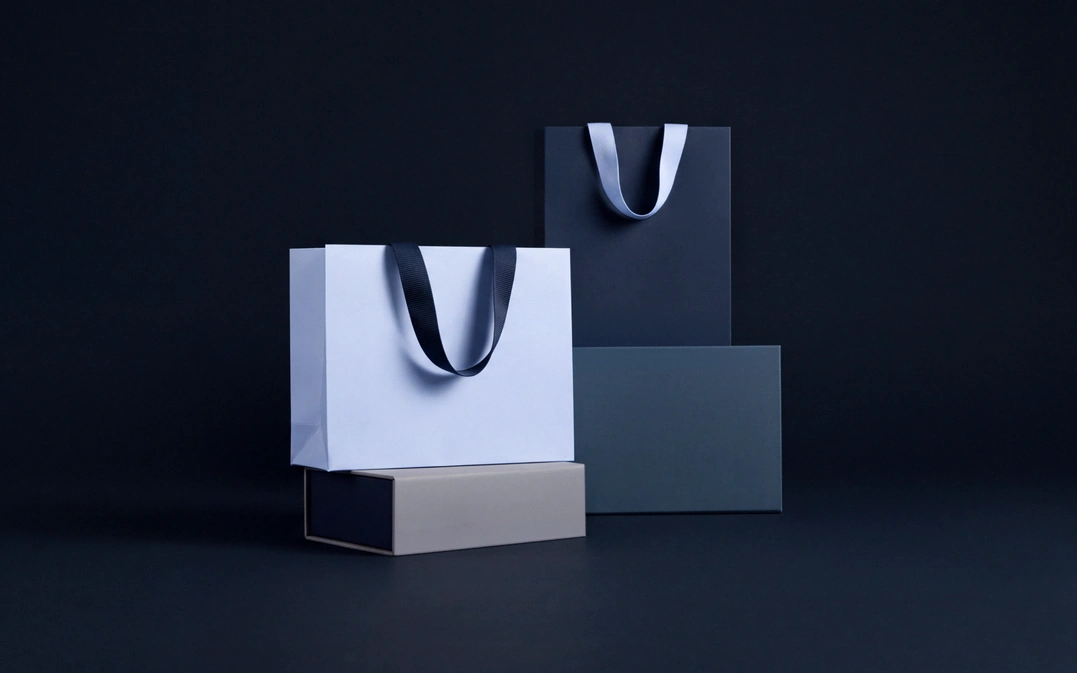
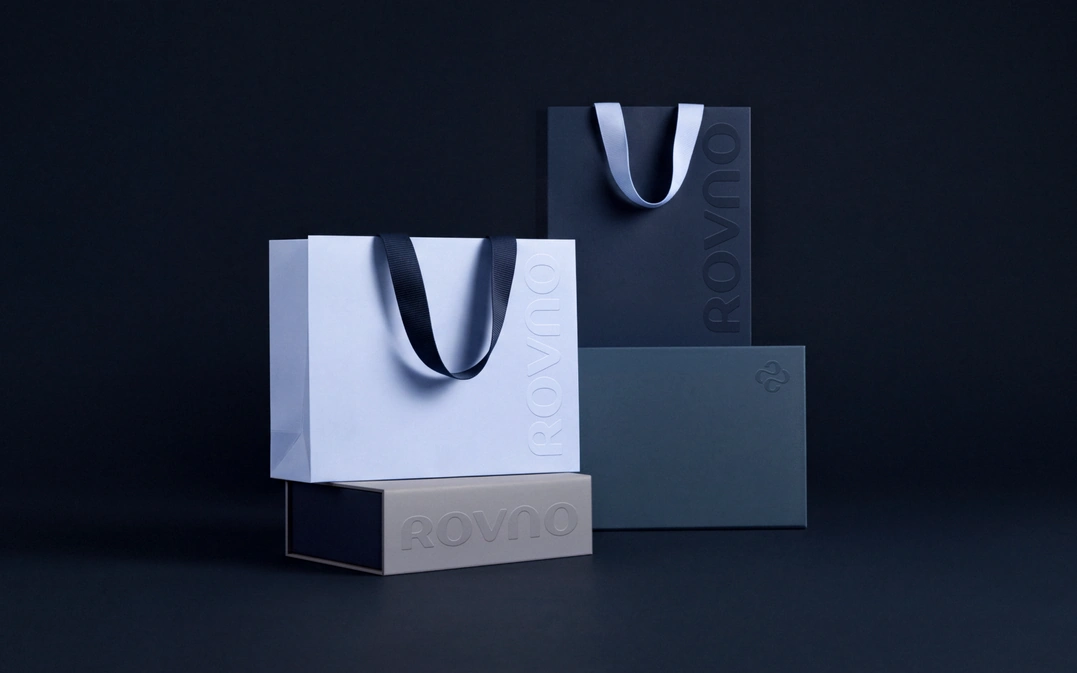
Rovno slide 2: refreshed desktop frame, own phone frame
Claude-Session: https://claude.ai/code/session_01MeEtXpgrHiToQSmDEHeNPT

Changed region(s): [[0.2451, 0.1248, 0.766, 0.8737]]

diff --git a/index.html b/index.html
@@ -2511,7 +2511,8 @@
         <div class="carousel__track">
           <div class="carousel__slide carousel__slide--desktop"><div class="carousel__cell"><img src="images/cover-08.webp?v=2" srcset="images/cover-08-1077.webp?v=2 1077w, images/cover-08.webp?v=2 1920w" sizes="(max-width: 900px) 100vw, 959px" alt="Rovno Home" loading="lazy" decoding="async"></div></div>
           <div class="carousel__slide carousel__slide--phone"><div class="carousel__cell"><img src="images/cover-08-m.webp?v=2" alt="Rovno Home" loading="lazy" decoding="async"></div></div>
-          <div class="carousel__slide"><div class="carousel__cell"><img data-src="images/rovno-s02.webp" data-srcset="images/rovno-s02-1077.webp 1077w, images/rovno-s02.webp 1920w" sizes="(max-width: 700px) 200vw, 959px" alt="Rovno Home" loading="lazy" decoding="async"></div></div>
+          <div class="carousel__slide carousel__slide--desktop"><div class="carousel__cell"><img data-src="images/rovno-s02.webp?v=2" data-srcset="images/rovno-s02-1077.webp?v=2 1077w, images/rovno-s02.webp?v=2 1920w" sizes="959px" alt="Rovno Home" loading="lazy" decoding="async"></div></div>
+          <div class="carousel__slide carousel__slide--phone"><div class="carousel__cell"><img data-src="images/rovno-m02.webp" alt="Rovno Home" loading="lazy" decoding="async"></div></div>
         </div>
       </div>
       <div class="project__row">

diff --git a/CLAUDE.md b/CLAUDE.md
@@ -200,8 +200,9 @@ plateaus, Nadoswap 88, 3I Tech 92–93; Nadoswap desktop and both 3I Tech files 
 later on Nov 23 after her edits, `?v=2`). Rovno re-done Nov 25 from `138:13010` (desktop)
 and `145:488` (phone), q94, `?v=2`. Rovno's card became a `.project__carousel` on
 Nov 27 (cursor «n/2» instead of «скоро»): slide 1 = the cover (desktop/phone
-slides), slide 2 = her `138:13082` bags (`rovno-s02` + `-1077`, q96, shared, centre-
-cropped to 4:5 on phones until she sends a phone frame). The old `grid-08…11` files are gone.
+slides), slide 2 = her `138:13082` bags (desktop, `rovno-s02` + `-1077`,
+q96, re-exported Nov 27 after her edits, `?v=2`) and her phone frame `181:1920`
+(`rovno-m02`, 1080x1350, q96), as `--desktop`/`--phone` slides. The old `grid-08…11` files are gone.
 
 **Phone home (≤700px, Nov 19, after actualsource.work).** 15px (.9375rem)
 gutters, topbar logo on the same line; covers full width at 16:10 like desktop (carousels are 4:5 on phones since
